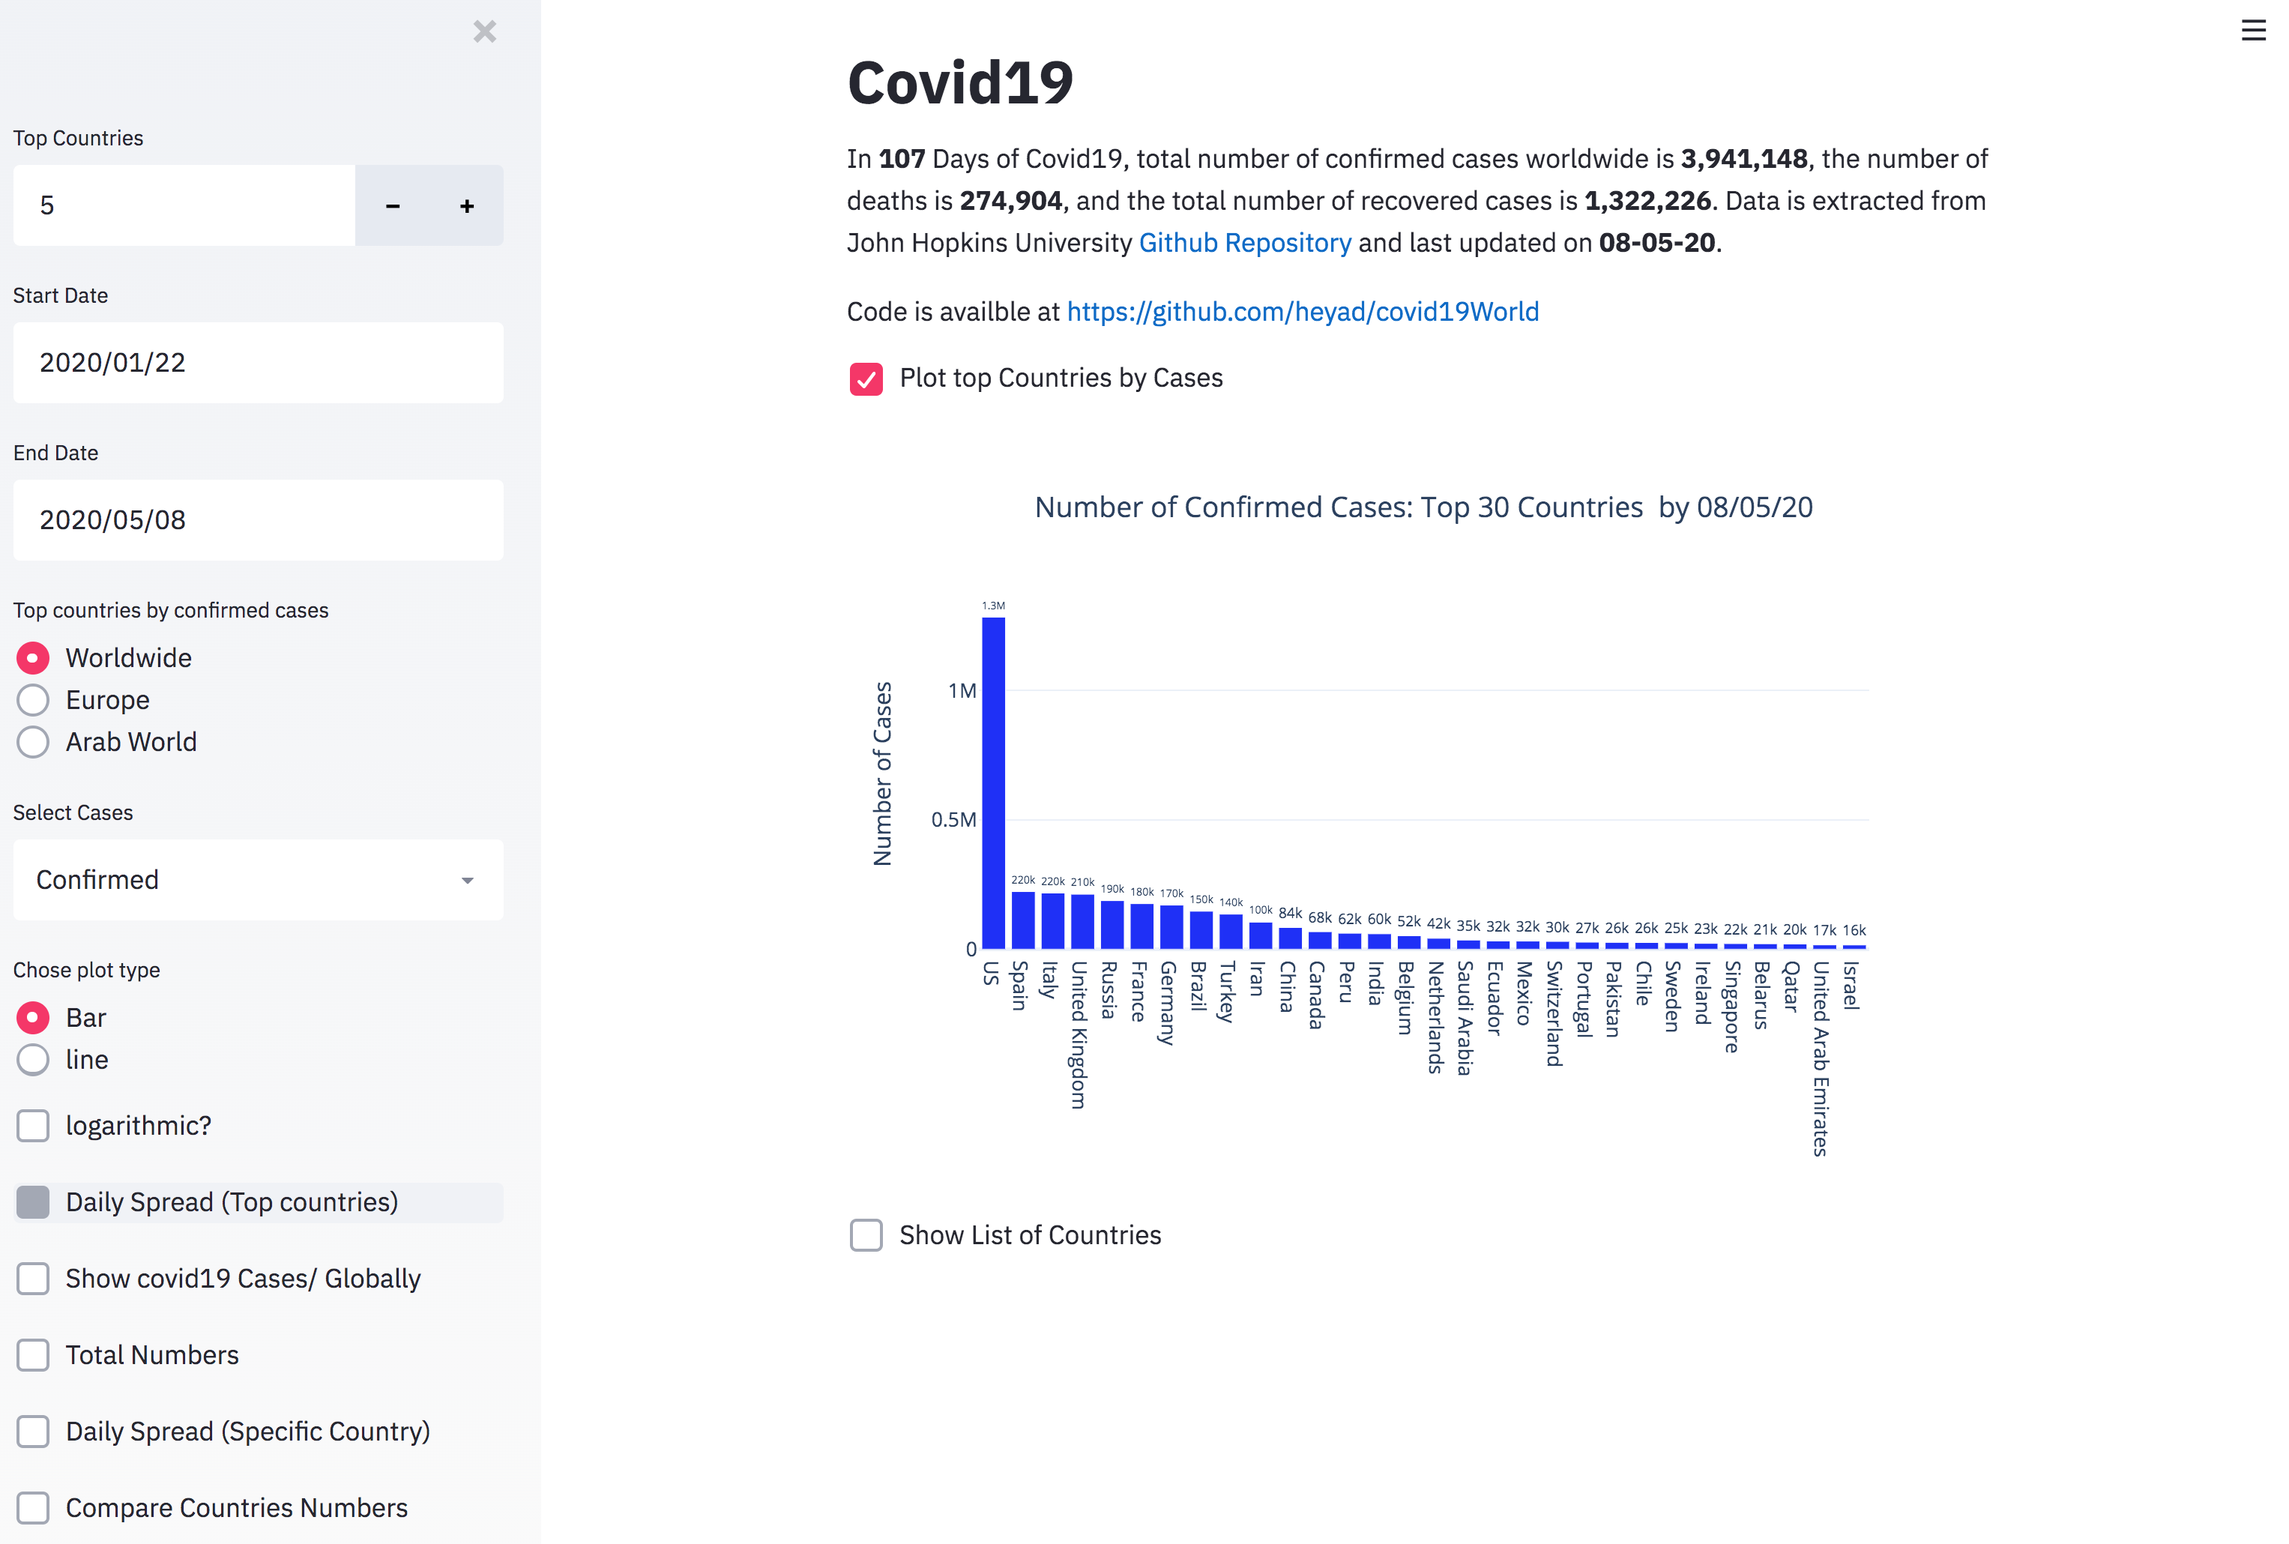
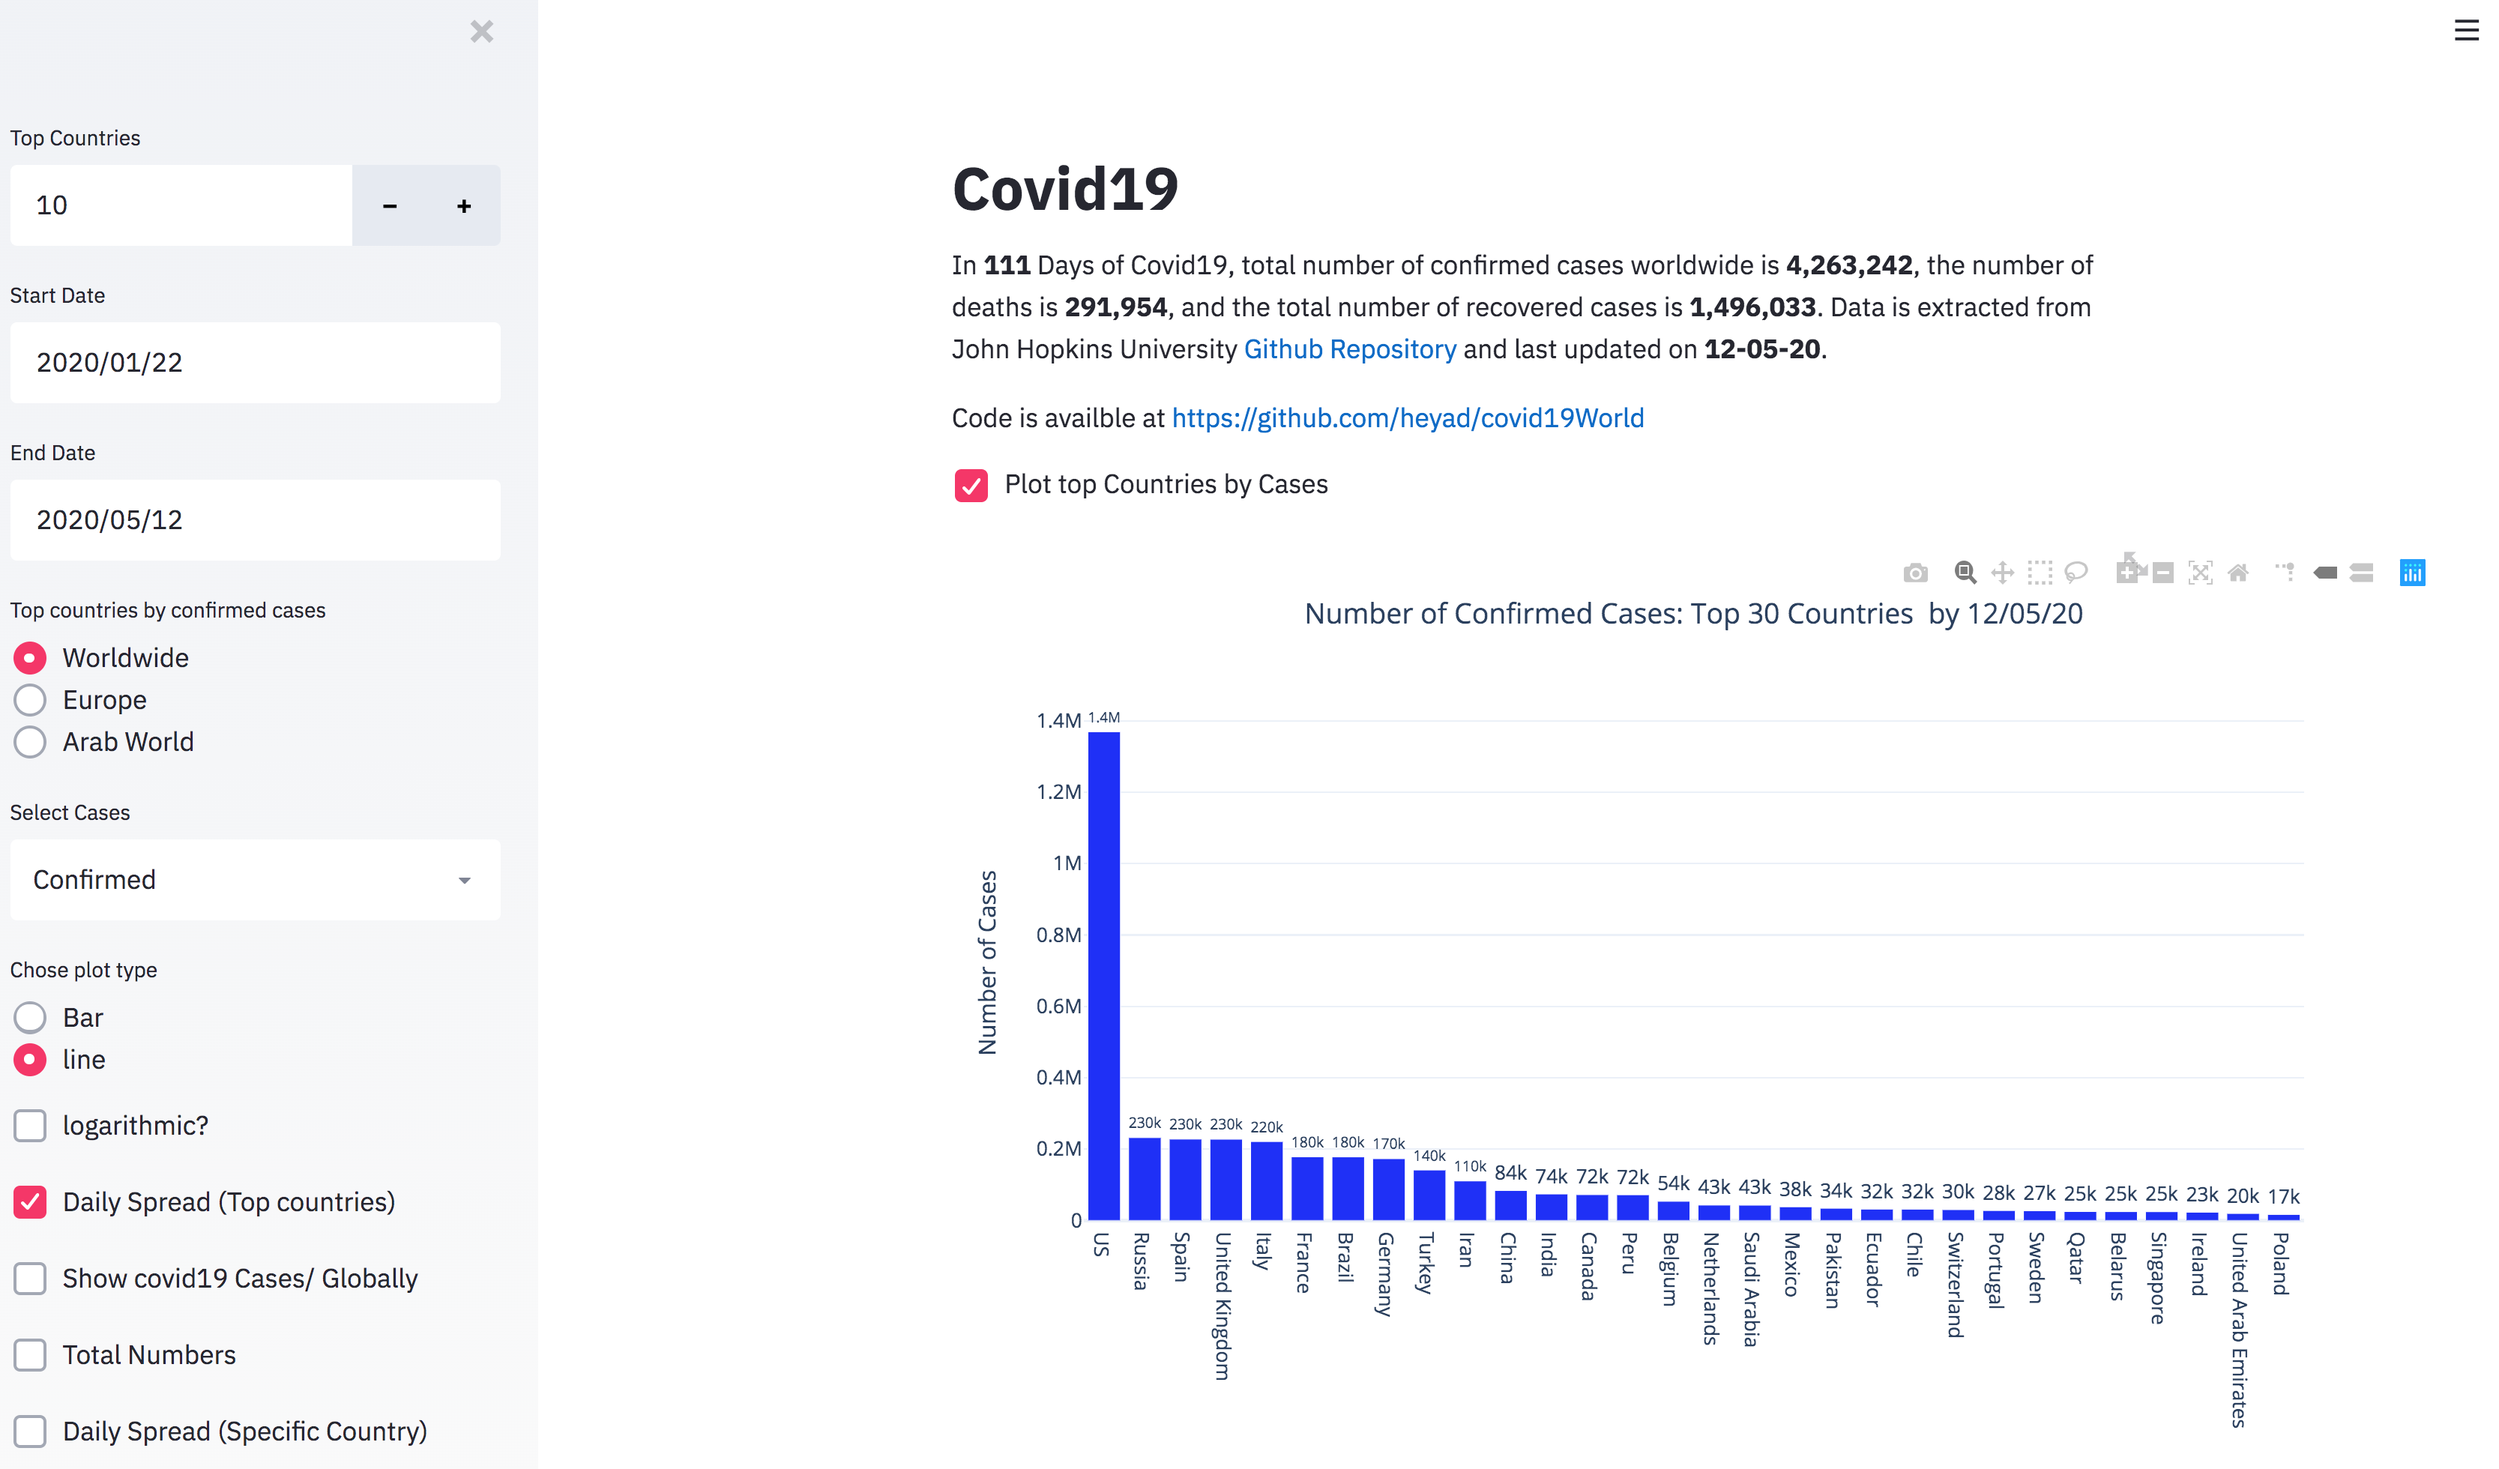
code-numbers

diff --git a/covid19.py b/covid19.py
@@ -128,6 +128,7 @@ df_confirmed, df_deaths,df_recovered,top_conf= read_files(date.today().isoformat
 covid19,df_covid19,df_grouped = prepare_data(date.today().isoformat())
 
 
+
 ### Fill missing values with zeros 
 
 # EU countries 
@@ -141,7 +142,11 @@ arabs = ['Jordan','Egypt','Saudi Arabia','Qatar','Bahrain','Iraq','Algeria','Mor
          'Lybia','Union of the Comoros','Somali','Palestine']
 
 
+df_grouped.sort_values(by='Confirmed',ascending=False,inplace=True)
+top_conf = df_grouped['Country'].to_list()
+
 # by deaths
+
 df_grouped.sort_values(by='Deaths',ascending=False,inplace=True)
 top_death = df_grouped['Country'].to_list()
 # by recovered
@@ -333,6 +338,7 @@ def plot_countries_daily(countries='all',cases='Confirmed',startDate='2020-1-21'
                          endDate='2020-3-22',title='Date',facet_cols=2,bar=False,line=True,logs=False):
     
     temp = covid19.loc[covid19['Country'].isin(countries),:].copy()
+
     #temp = covid19[(covid19.Country.isin(countries))].copy()
     temp['Date'] = pd.to_datetime(temp['Date'])
 
@@ -398,8 +404,9 @@ def plot_countries_daily(countries='all',cases='Confirmed',startDate='2020-1-21'
 
 def plot_countries_daily_s(startDate,endDate,n):
      
-        
         n = 10
+        df_grouped.sort_values(by='Confirmed',ascending=False,inplace=True)
+        top_conf = df_grouped['Country'].to_list()
         if regions=='Worldwide':
             st.plotly_chart(plot_countries_daily(top_conf[:number_s],
                 covid19_cases,startDate,endDate,
@@ -576,6 +583,8 @@ def plot_specific_country(startDate,endDate,bar=True,line=False,log=False):
         if covid19_cases=='Confirmed':
                 # selection box won't work if the list is too long 
                 if regions == 'Worldwide':
+                    df_grouped.sort_values(by='Confirmed',ascending=False,inplace=True)
+                    top_conf = df_grouped['Country'].to_list()
                     country = st.sidebar.selectbox('',top_conf)
                     st.plotly_chart(plot_countries_daily([country],
                     covid19_cases,startDate,endDate,
@@ -725,29 +734,4 @@ if show_tables:
     show_top_countries_list(number_s)
 
 
-#33
-# dlkj 
-# px.set_mapbox_access_token(secret_value_0)
-# fig = px.scatter_mapbox(df_hotspots,
-#                         lat="latitude",
-#                         lon="longitude",
-#                         size="confirmed",
-#                         hover_data=['infection_case','city','province'],
-#                         zoom=5,
-#                         size_max=50,
-#                         title= 'COVID19 Hotspots in South Korea')
-# fig.show()
 
-
-
-# df = df_plot.query("Country_Region=='India'")
-# df.reset_index(inplace = True)
-# df = add_daily_measures(df)
-# fig = go.Figure(data=[
-#     go.Bar(name='Cases', x=df['Date'], y=df['Daily Cases']),
-#     go.Bar(name='Deaths', x=df['Date'], y=df['Daily Deaths'])
-# ])
-# # Change the bar mode
-# fig.update_layout(barmode='overlay', title='Daily Case and Death count(India)',
-#                  annotations=[dict(x='2020-03-23', y=106, xref="x", yref="y", text="Lockdown Imposed(23rd March)", showarrow=True, arrowhead=1, ax=-100, ay=-100)])
-# fig.show()
